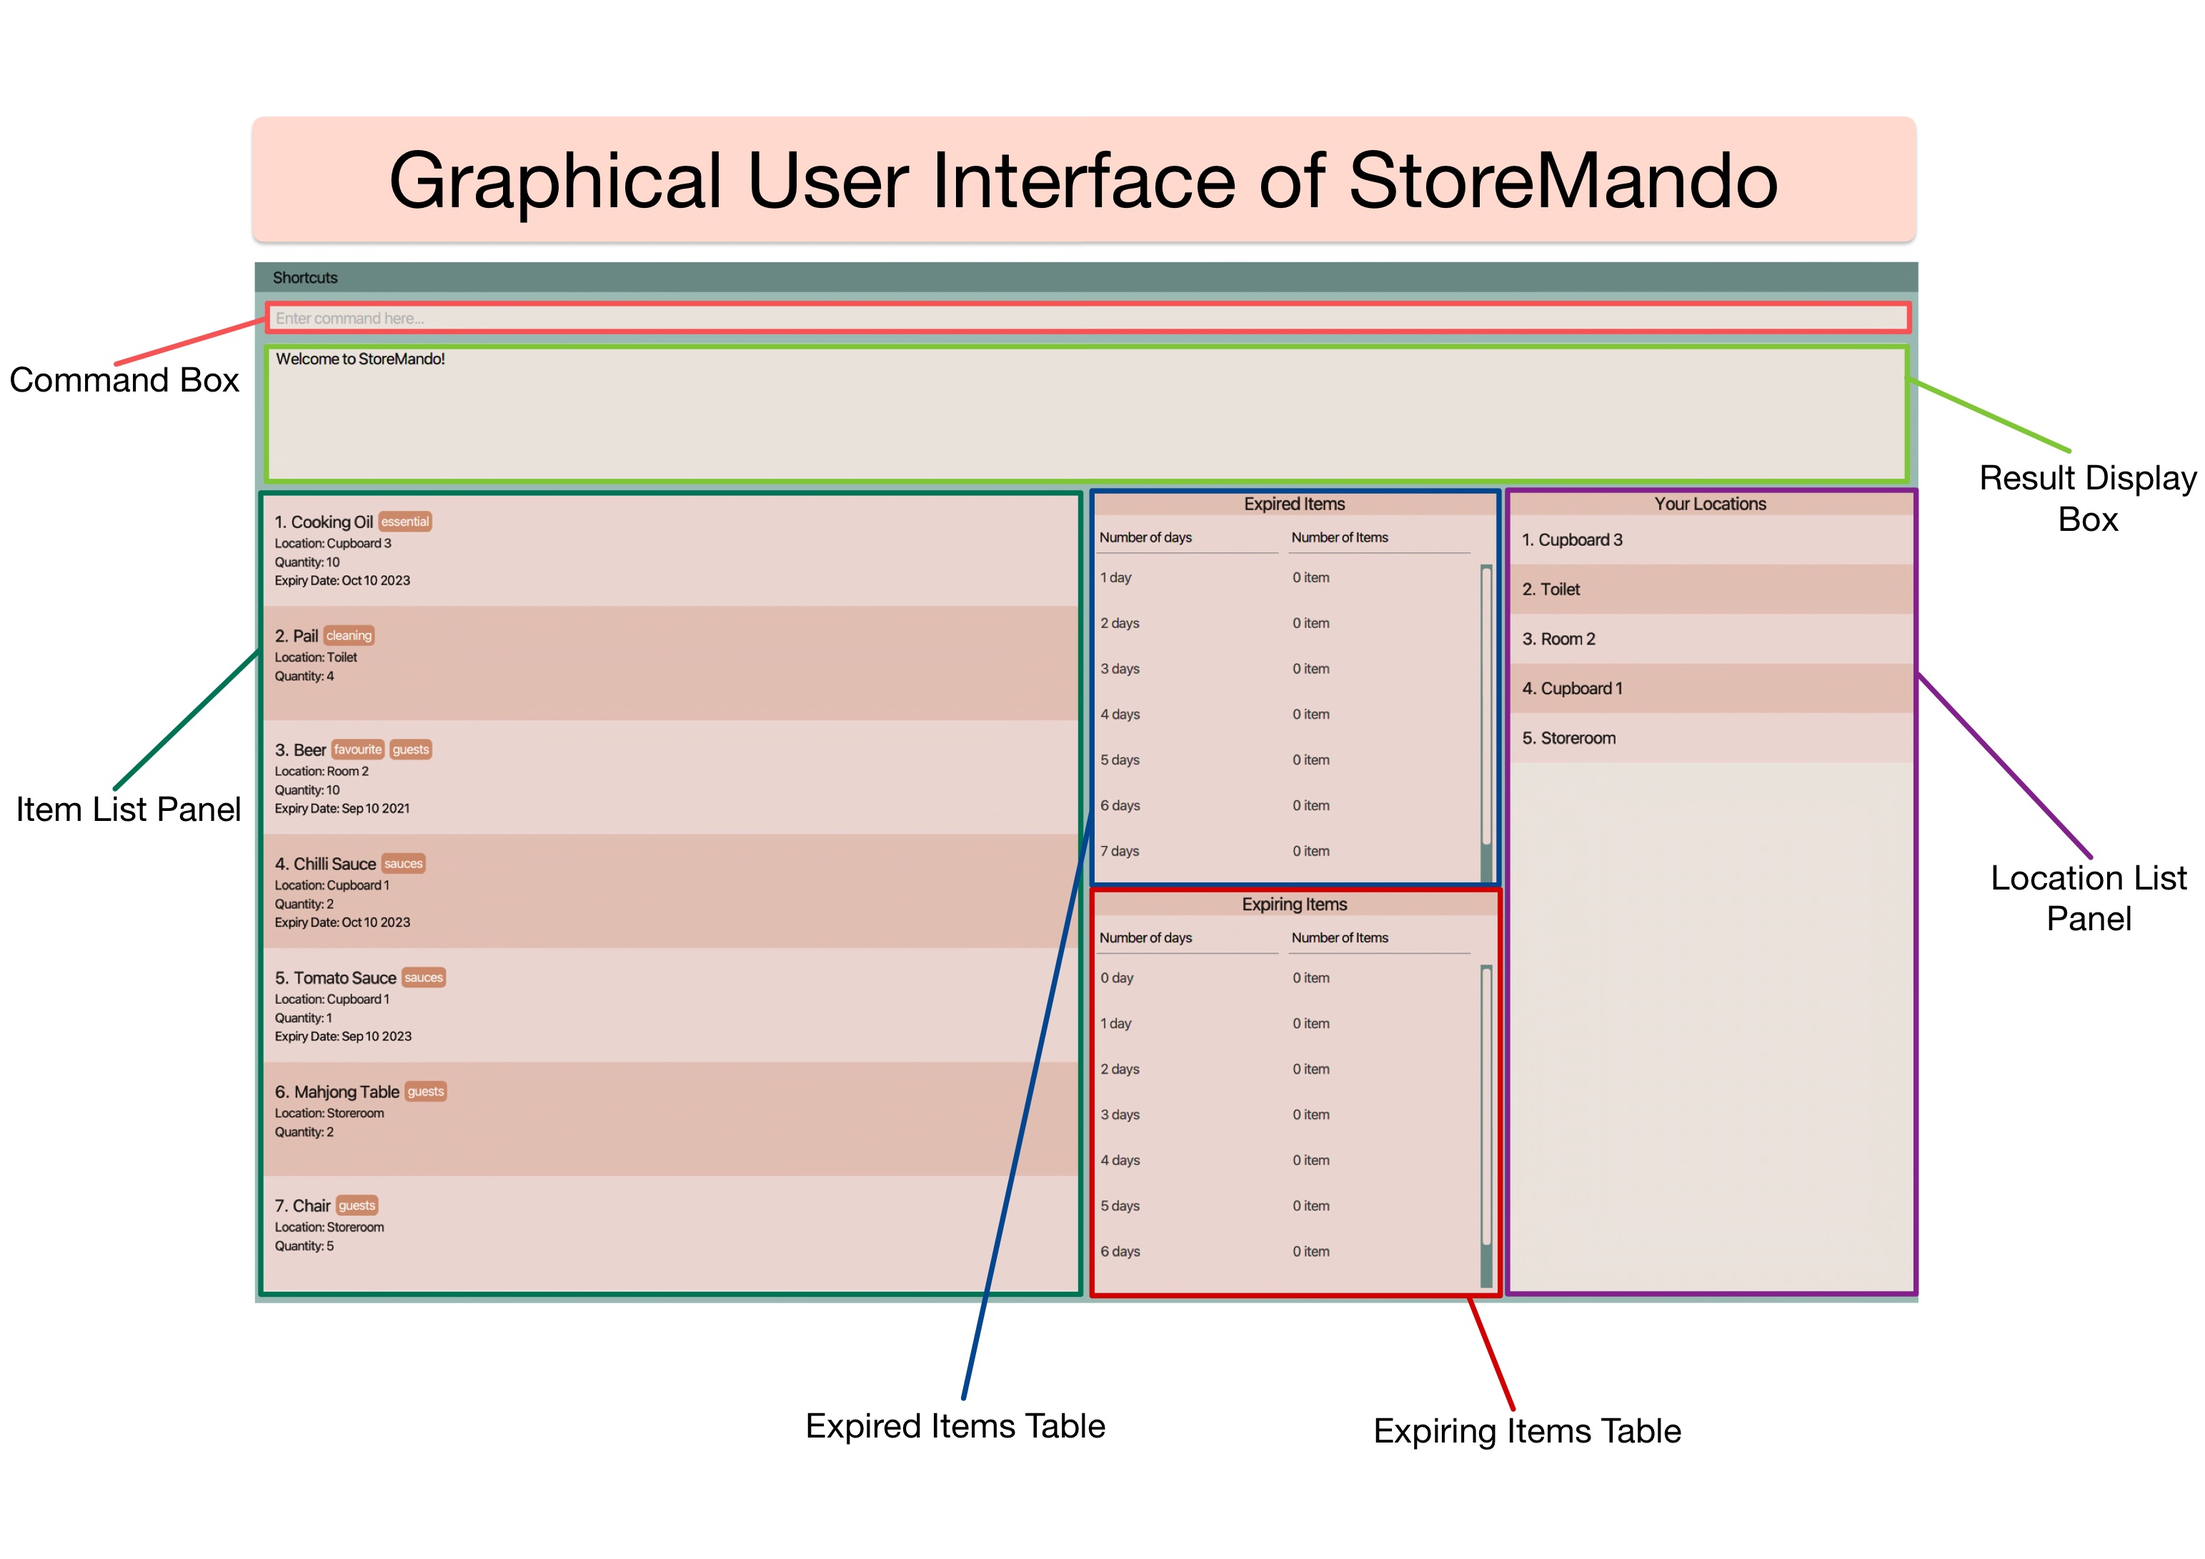
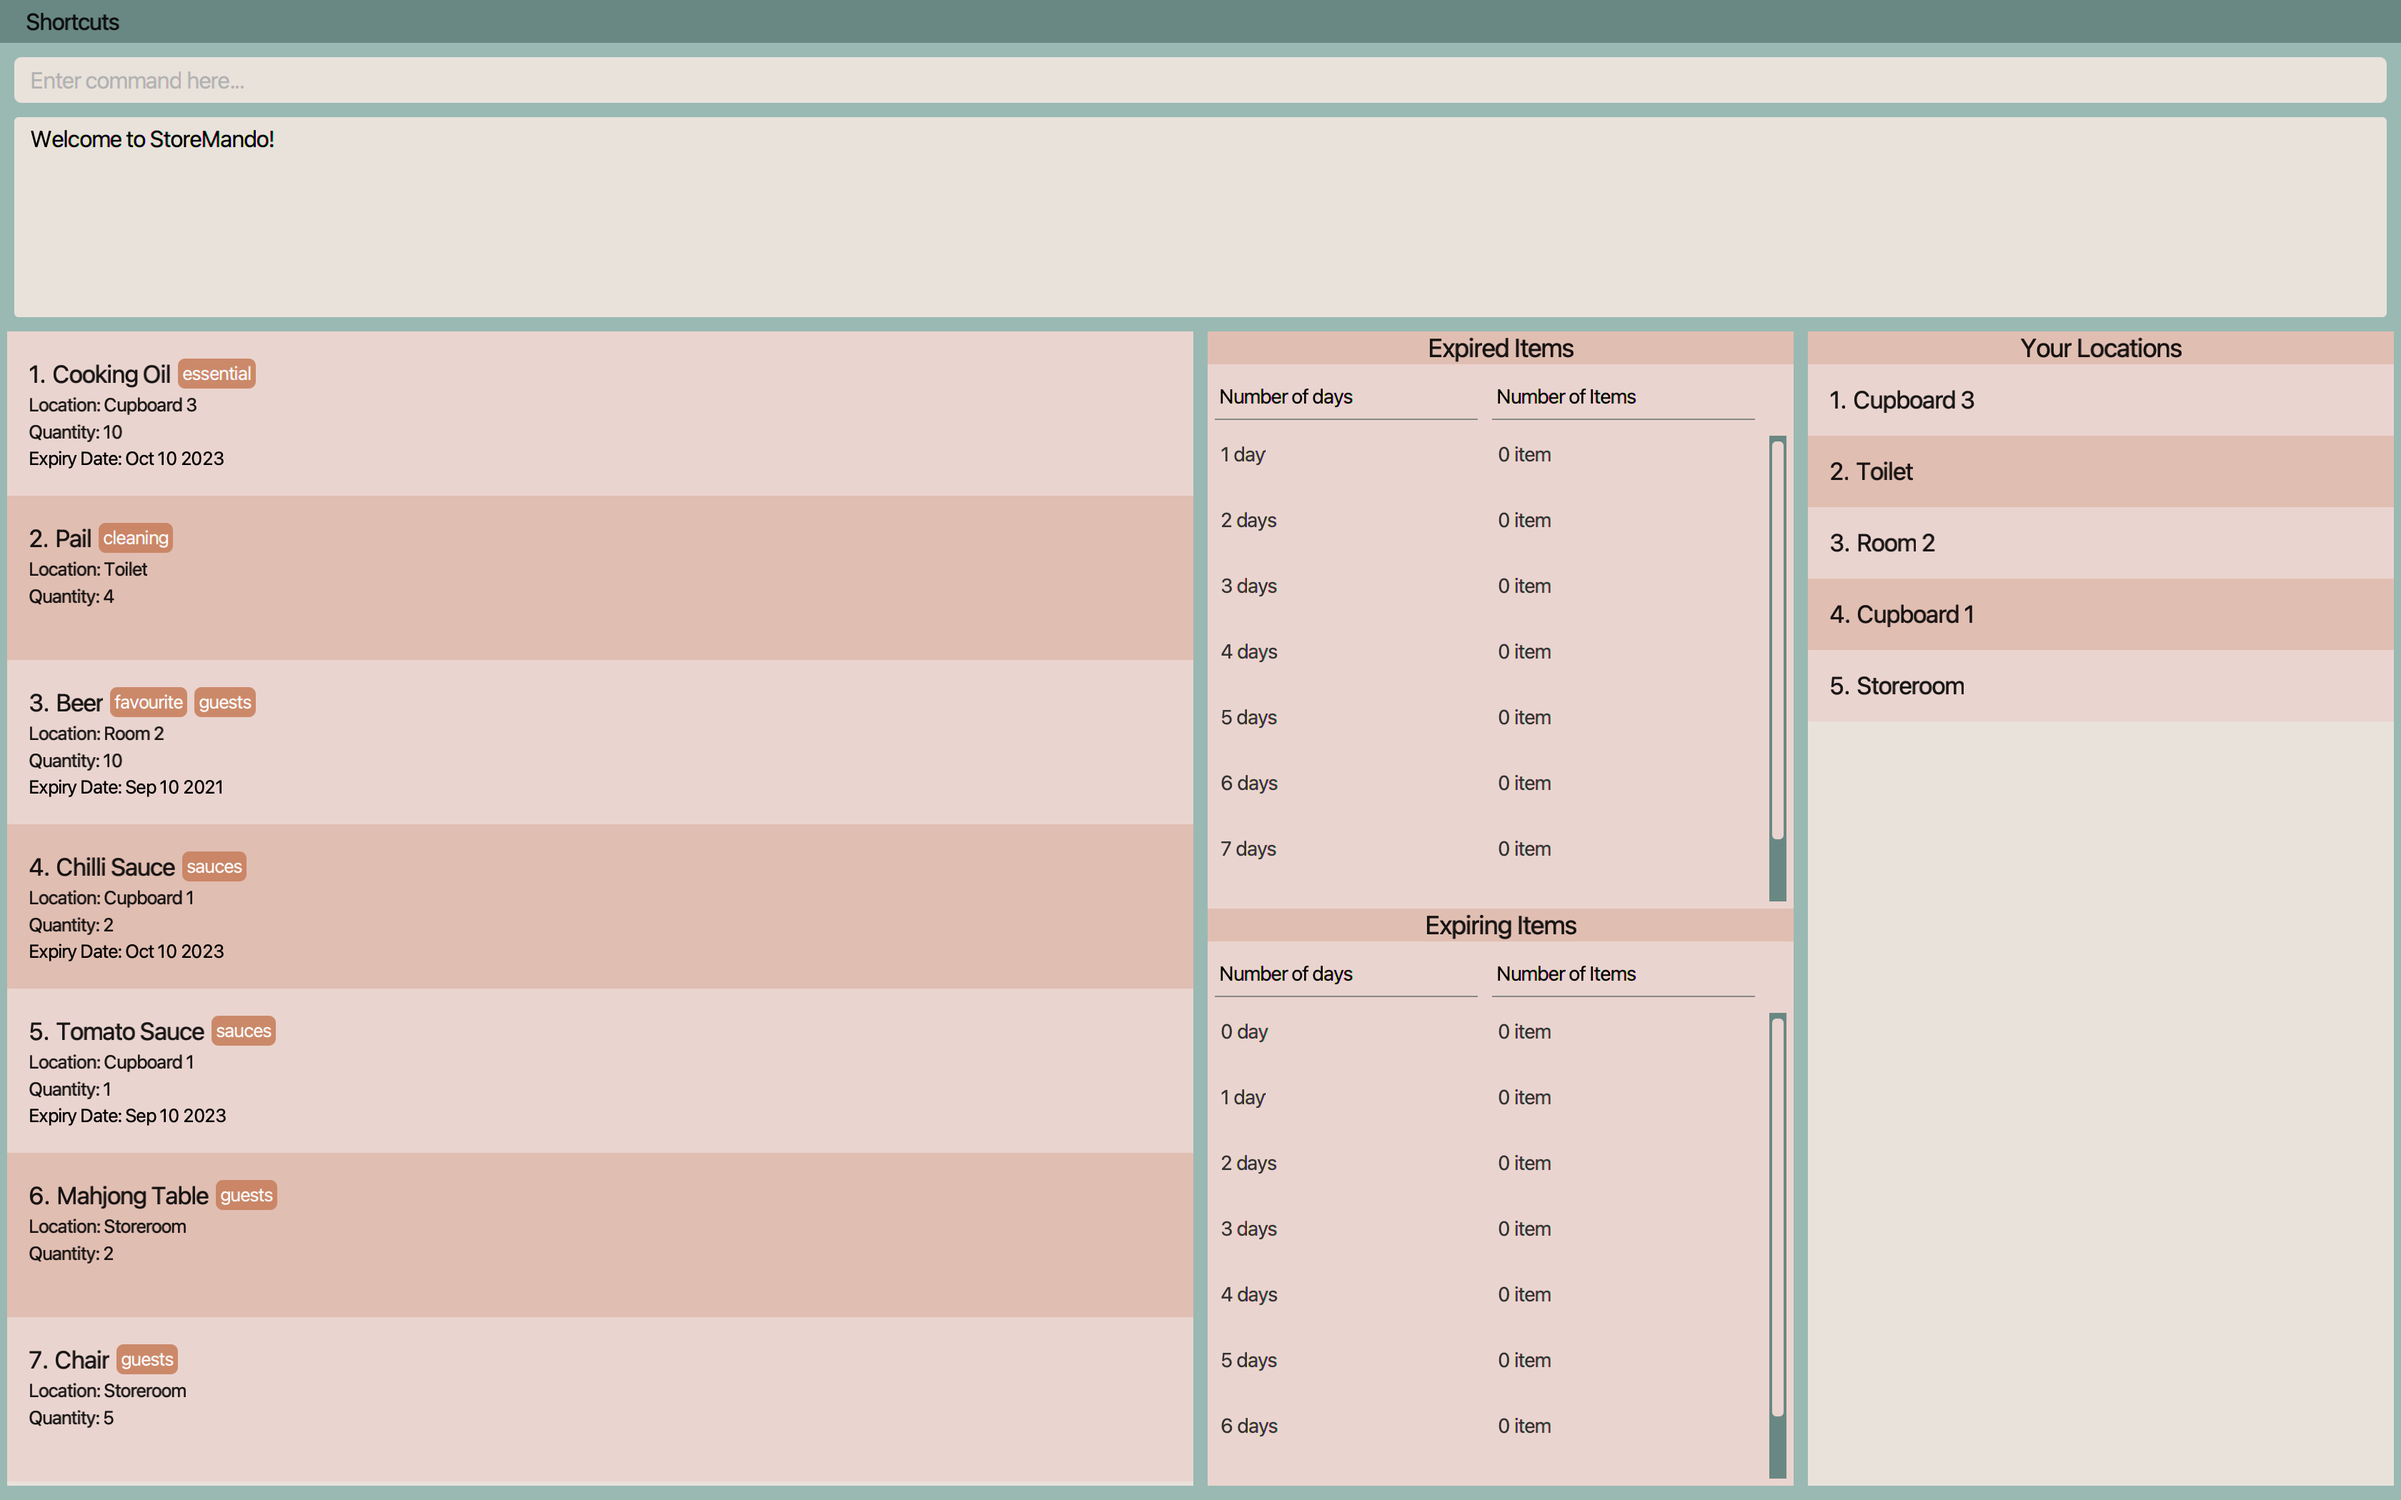
Add GUI Layout and UI png

diff --git a/docs/UserGuide.md b/docs/UserGuide.md
@@ -76,6 +76,8 @@ If you need an overview of StoreMando’s commands, check out the [“Command Su
 
 ### 2.2. StoreMando's layout
 
+![GUILayout](images/GUILayout.png)
+
 #### Command Box
 
 The command box is the long box at the top where you will be entering commands to be executed by StoreMando.
